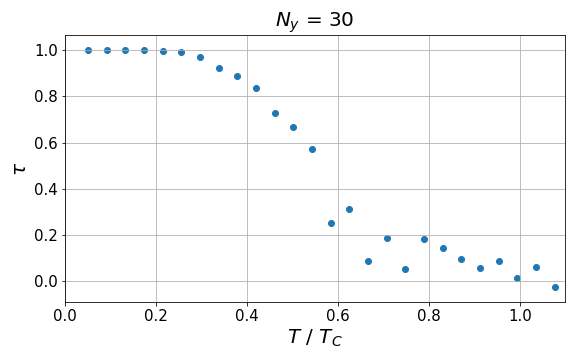
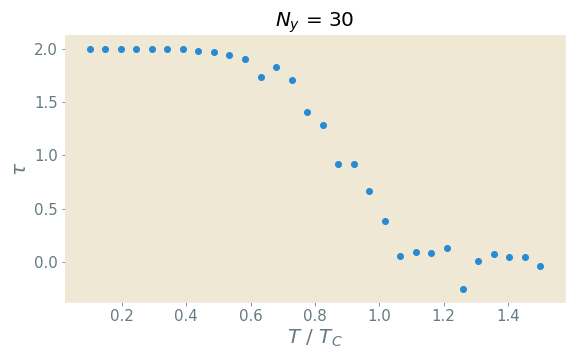
More stuff

diff --git a/Exam/src/mon_jasnow.py b/Exam/src/mon_jasnow.py
@@ -2,7 +2,13 @@ import numpy as np  # Array manipulation at C-speed
 from numba import njit  # Compile functions at first excecution.
 
 # from dask import delayed, compute
-from lattice_utils import get_flip_energy, get_lattice_pp, get_lattice_pm, energy_diff
+from lattice_utils import (
+    get_flip_energy,
+    get_lattice_pp,
+    get_lattice_pm,
+    energy_diff,
+    basic_lattice,
+)
 
 
 @njit
@@ -35,27 +41,12 @@ def ising_hamiltonian(lattice, J=1.0, boundary_cond="mj"):
         for i in range(1, nx - 1):
             for j in range(ny):
                 si = lattice[i, j]
-
-                if i == 0:
-                    H -= si * (
-                        lattice[i, (j - 1) % ny]
-                        + lattice[i, (j + 1) % ny]
-                        + lattice[i + 1, j]
-                    )
-                elif i == nx - 1:
-                    H -= si * (
-                        lattice[i, (j - 1) % ny]
-                        + lattice[i, (j + 1) % ny]
-                        + lattice[i - 1, j]
-                    )
-
-                else:
-                    H -= si * (
-                        lattice[i, (j - 1) % ny]
-                        + lattice[i, (j + 1) % ny]
-                        + lattice[(i - 1), j]
-                        + lattice[(i + 1), j]
-                    )
+                H -= si * (
+                    lattice[i, (j - 1) % ny]
+                    + lattice[i, (j + 1) % ny]
+                    + lattice[(i - 1), j]
+                    + lattice[(i + 1), j]
+                )
         return H * J / 2
     elif boundary_cond == "torus":
         for i in range(nx):
@@ -96,6 +87,8 @@ def ising_hamiltonian(lattice, J=1.0, boundary_cond="mj"):
                         + lattice[(i + 1), j]
                     )
         return H * J / 2
+    else:
+        raise NotImplementedError
 
 
 @njit
@@ -174,32 +167,31 @@ def metropolis_mj_2(N_size, N_sweeps, T, skips=50, N_runs=10, bc="mj"):
     * Computes energy difference
     * appends to list
     * Compute mean and std.
+
     """
 
     ev = []  # List for storing expectation value
     for run in range(N_runs):
-        lattice_pp = get_lattice_pp(N_size, aligned=True)  # Create ++ -lattice
+        if bc == "mj":
+            lattice = get_lattice_pp(N_size, aligned=True)  # Create ++ -lattice
+        else:
+            lattice = basic_lattice(N_size)
         prev = 0  # keeps track of last sampled state
-        for i in range(N_sweeps):  # Do N_sweep sweeps
-
-            metropolis_subroutine(lattice_pp, T, bc=bc)  # Tries to flip N^2 spins.
-
-            if (i > max(50, skips)) and (
-                i >= (prev + skips)
-            ):  # Do at least 50 Initial sweeps, and skip sweeps between each sample
+        for i in range(N_sweeps):  # Do N_sweep, bc=bc sweeps.
+            if i == 0:
+                for j in range(max(50, skips)):
+                    metropolis_subroutine(lattice, T, bc=bc)  # Tries to flip N^2 spins
+            if i >= (prev + skips):
                 prev = i  # Keeps track of index of current sample
-
                 E_diff = energy_diff(
-                    lattice_pp, bc=bc
+                    lattice, bc=bc
                 )  # Computes the energy difference in the hamiltonians
-
                 k = np.exp(-E_diff / T)
-                # if E_diff < 0 and T < (2 / np.log(1 + np.sqrt(2))):
-                # pass
                 if (k == 0.0) or k == np.inf:
                     pass
                 else:
                     ev.append(k)  # Add exp(-(E_{+-} - E_{++})/T) to a list
+            metropolis_subroutine(lattice, T, bc=bc)
     if len(ev) == 0:
         ev.append(
             np.nan
@@ -209,7 +201,7 @@ def metropolis_mj_2(N_size, N_sweeps, T, skips=50, N_runs=10, bc="mj"):
 
 
 @njit
-def get_tau(N_size, N_sweeps, T, N_runs=10, skips=10):
+def get_tau(N_size, N_sweeps, T, N_runs=10, skips=10, bc="mj"):
     """Returns list of computed tau-values
     
     Arguments:
@@ -219,6 +211,13 @@ def get_tau(N_size, N_sweeps, T, N_runs=10, skips=10):
     """
     tau = np.zeros_like(T)
     for i in range(tau.shape[0]):
-        mean, _ = metropolis_mj_2(N_size, N_sweeps, T[i], skips=skips, N_runs=N_runs)
+        mean, _ = metropolis_mj_2(
+            N_size,  # Size of lattice
+            N_sweeps,  # Number of sweeps
+            T[i],  # Temperature at index i
+            skips=skips,  # NUmber of skups between each sample
+            N_runs=N_runs,  # Number of resets
+            bc=bc,  # Boundary conditions
+        )
         tau[i] = -np.log(mean) * T[i] / N_size
     return tau

diff --git a/Exam/src/lattice_utils.py b/Exam/src/lattice_utils.py
@@ -33,7 +33,8 @@ def get_lattice_pp(N, aligned=False):
 
 @njit
 def convert_pp_to_pm(lat_pp):
-    """Creates the +- - equivalent of the ++ lattice-
+    """
+    Creates the +- - equivalent of the ++ lattice-
 
     """
     tmp = lat_pp.copy()
@@ -43,6 +44,9 @@ def convert_pp_to_pm(lat_pp):
 
 @njit
 def get_lattice_pm(N):
+    """
+    Get (+-) - lattice
+    """
     lattice = np.random.choice(np.array([-1.0, 1.0]), size=(N + 2, N))
     lattice[0, :] = np.ones(N, dtype=np.float_)
     lattice[N + 1, :] = -np.ones(N, dtype=np.float_)
@@ -71,7 +75,7 @@ def get_flip_energy(i, j, lat, bc="mj"):
         sum_other = lat[i - 1, j] + lat[i + 1, j] + lat[i, j_1] + lat[i, j_2]
 
         return (
-            sp * J * sum_other
+            sp * J * sum_other * 2
         )  # Difference in energy when flipping. Minussign in H accounted for
 
     elif bc == "torus":  # Boundary condition for torus
@@ -108,6 +112,6 @@ def energy_diff(l, bc="mj"):
         return np.sum(l[-2, :]) * 2
 
     elif bc == "torus":
-        return np.sum(np.flip(l[0, :]) * l[-1, :] + l[0, :] * l[-1, :])
+        return np.sum(l[-1, :] * (l[0, ::-1] + l[0, :]))
     else:
         raise NotImplementedError
